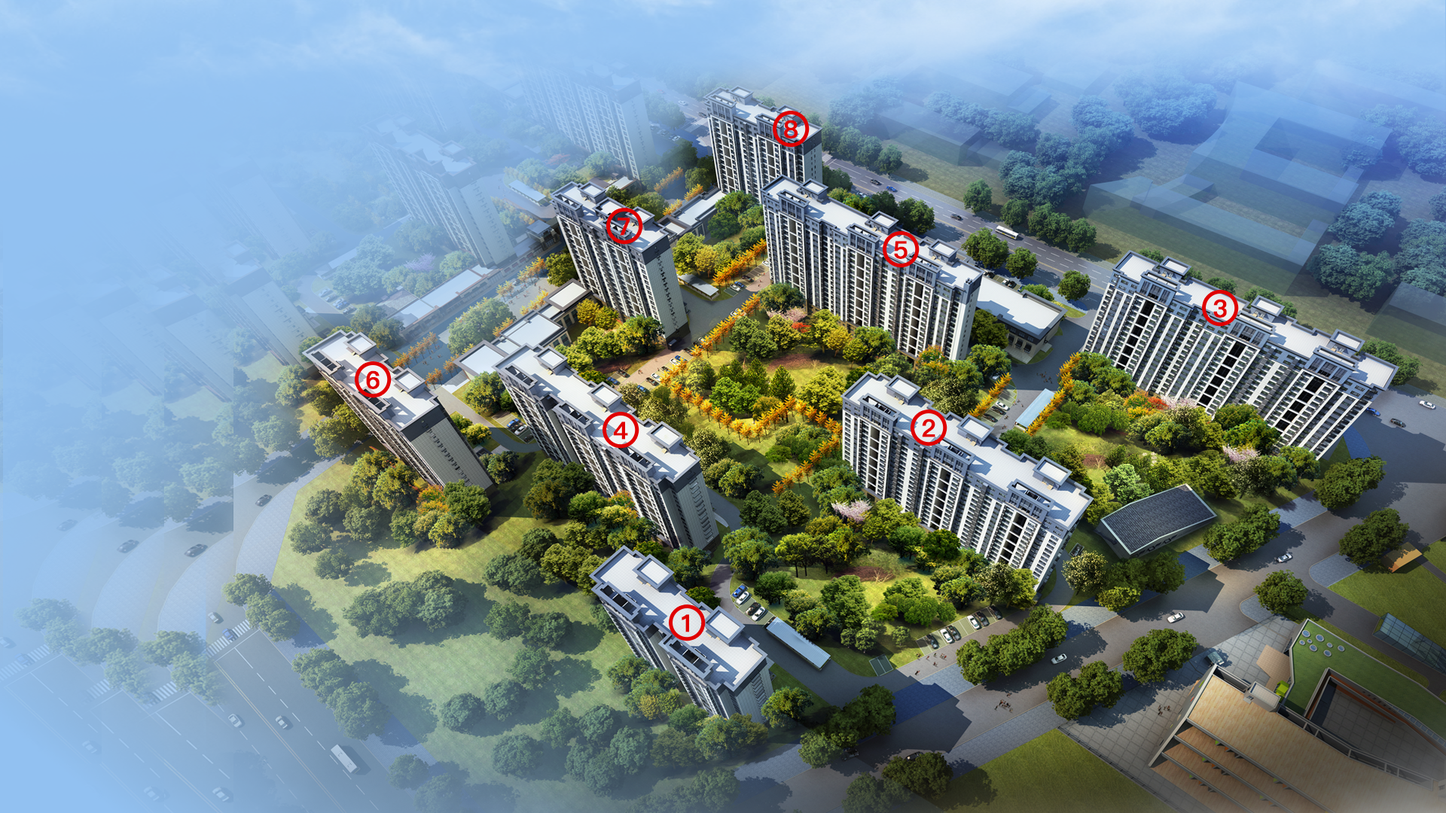
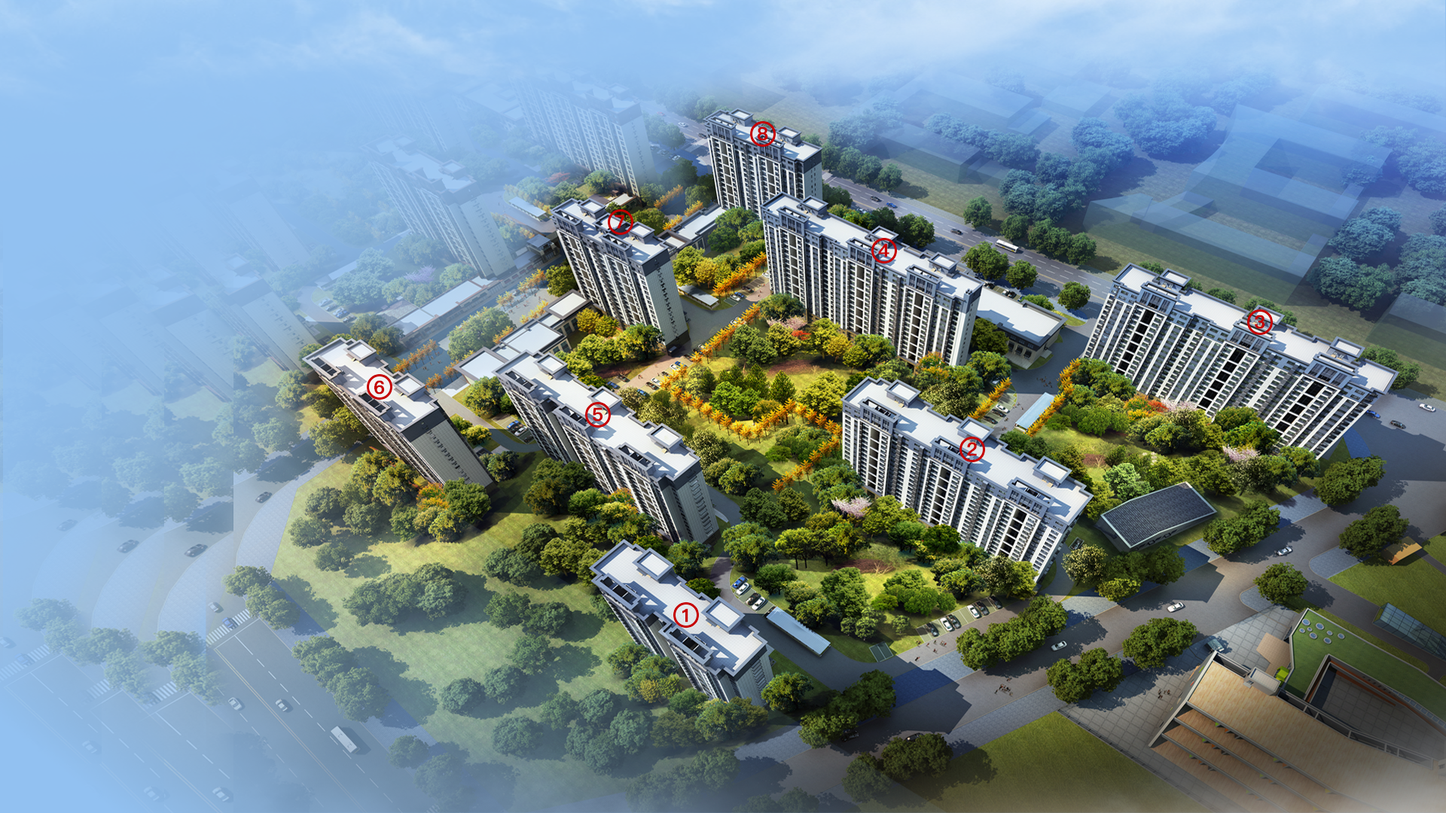
调整样式

diff --git a/PC/css/place.css b/PC/css/place.css
@@ -1,90 +1,101 @@
 .place_item {
   display: none;
 }
-
+/* 03地块 */
 .place03 .place_item:nth-of-type(1) {
-  top: 900px;
-  left: 840px;
+  top: 734px;
+  left: 830px;
 }
 
 .place03 .place_item:nth-of-type(2) {
-  top: 530px;
-  left: 1100px;
+  top: 436px;
+  left: 1120px;
 }
 
 .place03 .place_item:nth-of-type(3) {
-  top: 290px;
-  left: 1350px;
+  top: 250px;
+  left: 1370px;
 }
 
 .place03 .place_item:nth-of-type(4) {
-  top: 720px;
-  left: 500px;
+  top: 140px;
+  left: 1050px;
 }
 
 .place03 .place_item:nth-of-type(5) {
-  top: 410px;
-  left: 740px;
+  top: 340px;
+  left: 730px;
 }
 
 .place03 .place_item:nth-of-type(6) {
-  top: 160px;
-  left: 1050px;
+  top: 620px;
+  left: 470px;
 }
 
+/* 08地块 */
 .place08 .place_item:nth-of-type(1) {
-  top: 900px;
-  left: 840px;
+  top: 706px;
+  left: 1270px;
 }
 
 .place08 .place_item:nth-of-type(2) {
-  top: 530px;
-  left: 1100px;
+  top: 550px;
+  left: 1010px;
 }
 
 .place08 .place_item:nth-of-type(3) {
-  top: 290px;
-  left: 1350px;
+  top: 370px;
+  left: 660px;
 }
 
 .place08 .place_item:nth-of-type(4) {
-  top: 720px;
-  left: 500px;
+  top: 283px;
+  left: 434px;
 }
 
 .place08 .place_item:nth-of-type(5) {
-  top: 410px;
-  left: 740px;
+  top: 480px;
+  left: 1660px;
 }
 
 .place08 .place_item:nth-of-type(6) {
-  top: 160px;
-  left: 1050px;
+  top: 334px;
+  left: 1300px;
 }
 
+.place08 .place_item:nth-of-type(7) {
+  top: 200px;
+  left: 970px;
+}
+
+.place08 .place_item:nth-of-type(8) {
+  top: 144px;
+  left: 680px;
+}
+/* 10地块 */
 .place10 .place_item:nth-of-type(1) {
-  top: 900px;
-  left: 840px;
+  top: 736px;
+  left: 1070px;
 }
 
 .place10 .place_item:nth-of-type(2) {
-  top: 530px;
-  left: 1100px;
+  top: 512px;
+  left: 1444px;
 }
 
 .place10 .place_item:nth-of-type(3) {
-  top: 290px;
-  left: 1350px;
+  top: 430px;
+  left: 920px;
 }
 
 .place10 .place_item:nth-of-type(4) {
-  top: 720px;
-  left: 500px;
+  top: 150px;
+  left: 810px;
 }
 
 .place10 .place_item:nth-of-type(5) {
-  top: 410px;
-  left: 740px;
+  top: 344px;
+  left: 560px;
 }
 
 .place10 .place_item:nth-of-type(6) {
@@ -92,59 +103,50 @@
   left: 1050px;
 }
 
-.place10 .place_item:nth-of-type(8) {
-  top: 410px;
-  left: 740px;
-}
-
-.place10 .place_item:nth-of-type(8) {
-  top: 160px;
-  left: 1050px;
-}
-
+/* 14地块 */
 .place14 .place_item:nth-of-type(1) {
-  top: 900px;
-  left: 840px;
+  top: 746px;
+  left: 880px;
 }
 
 .place14 .place_item:nth-of-type(2) {
-  top: 530px;
-  left: 1100px;
+  top: 524px;
+  left: 1260px;
 }
 
 .place14 .place_item:nth-of-type(3) {
-  top: 290px;
-  left: 1350px;
+  top: 360px;
+  left: 1650px;
 }
 
 .place14 .place_item:nth-of-type(4) {
-  top: 720px;
-  left: 500px;
+  top: 263px;
+  left: 1150px;
 }
 
 .place14 .place_item:nth-of-type(5) {
-  top: 410px;
-  left: 740px;
+  top: 480px;
+  left: 770px;
 }
 
 .place14 .place_item:nth-of-type(6) {
-  top: 160px;
-  left: 1050px;
+  top: 444px;
+  left: 480px;
+}
+
+.place14 .place_item:nth-of-type(7) {
+  top: 224px;
+  left: 800px;
 }
 
 .place14 .place_item:nth-of-type(8) {
-  top: 410px;
-  left: 740px;
+  top: 110px;
+  left: 990px;
 }
-
-.place14 .place_item:nth-of-type(8) {
-  top: 160px;
-  left: 1050px;
-}
-
+/* 15地块 */
 .place15 .place_item:nth-of-type(1) {
-  top: 900px;
-  left: 840px;
+  top: 800px;
+  left: 940px;
 }
 
 .place15 .place_item:nth-of-type(2) {
@@ -153,31 +155,31 @@
 }
 
 .place15 .place_item:nth-of-type(3) {
-  top: 290px;
-  left: 1350px;
+  top: 470px;
+  left: 1500px;
 }
 
 .place15 .place_item:nth-of-type(4) {
-  top: 720px;
-  left: 500px;
+  top: 290px;
+  left: 1290px;
 }
 
 .place15 .place_item:nth-of-type(5) {
-  top: 410px;
-  left: 740px;
+  top: 326px;
+  left: 890px;
 }
 
 .place15 .place_item:nth-of-type(6) {
-  top: 160px;
-  left: 1050px;
+  top: 540px;
+  left: 680px;
+}
+
+.place15 .place_item:nth-of-type(7) {
+  top: 340px;
+  left: 540px;
 }
 
 .place15 .place_item:nth-of-type(8) {
-  top: 410px;
-  left: 740px;
-}
-
-.place15 .place_item:nth-of-type(8) {
-  top: 160px;
-  left: 1050px;
+  top: 134px;
+  left: 1100px;
 }

diff --git a/PC/css/project_list.css b/PC/css/project_list.css
@@ -283,6 +283,7 @@ input[type="checkbox"]:checked + label::after {
   max-width: 400px;
   cursor: pointer;
   border: 2px solid #fff;
+  overflow: hidden;
 }
 
 .content .area_list .item .info {
@@ -290,21 +291,24 @@ input[type="checkbox"]:checked + label::after {
   left: 0;
   top: 0;
   width: 100%;
+  -webkit-text-stroke: 3px transparent;
+  background: #2b82d9;
+  -webkit-background-clip: text;
 }
 
 .content .area_list .item .title {
-  height: 45px;
+  height: 40px;
   font-size: 32px;
   font-family: PingFangSC-Medium, PingFang SC;
   font-weight: 500;
   color: #ffffff;
   line-height: 45px;
-  padding: 38px 0 11px;
+  padding: 20px 0 4px;
 }
 
 .content .area_list .item .count {
   height: 37px;
-  font-size: 26px;
+  font-size: 18px;
   font-family: PingFangSC-Medium, PingFang SC;
   font-weight: 500;
   color: #ffffff;
@@ -336,7 +340,7 @@ input[type="checkbox"]:checked + label::after {
     font-size: 26px;
   }
   .content .area_list .item .count {
-    font-size: 20px;
+    font-size: 18px;
   }
 }
 @media (min-width: 1440px) and (max-width: 1599px) {
@@ -344,7 +348,7 @@ input[type="checkbox"]:checked + label::after {
     font-size: 28px;
   }
   .content .area_list .item .count {
-    font-size: 22px;
+    font-size: 18px;
   }
 }
 @media (min-width: 1680px) {
@@ -352,6 +356,6 @@ input[type="checkbox"]:checked + label::after {
     font-size: 30px;
   }
   .content .area_list .item .count {
-    font-size: 24px;
+    font-size: 18px;
   }
 }

diff --git a/PC/area.html b/PC/area.html
@@ -8,6 +8,7 @@
     <link rel="stylesheet" href="./css/reset.css">
     <link rel="stylesheet" href="./css/slide.css">
     <link rel="stylesheet" href="./css/area.css">
+    <link rel="stylesheet" href="./css/place.css">
 </head>
 
 <body>

diff --git a/PC/css/bi.css b/PC/css/bi.css
@@ -141,7 +141,7 @@
 }
 
 .left .item p {
-  -webkit-text-stroke: 4px transparent;
+  -webkit-text-stroke: 3px transparent;
   background: #2b82d9;
   -webkit-background-clip: text;
 }
